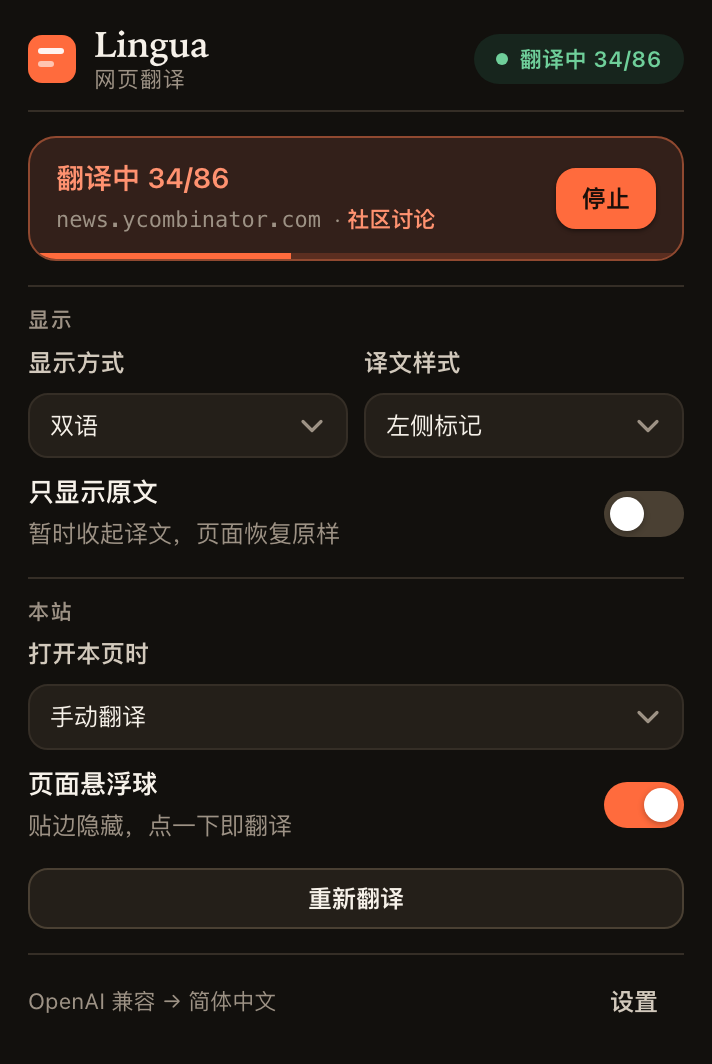
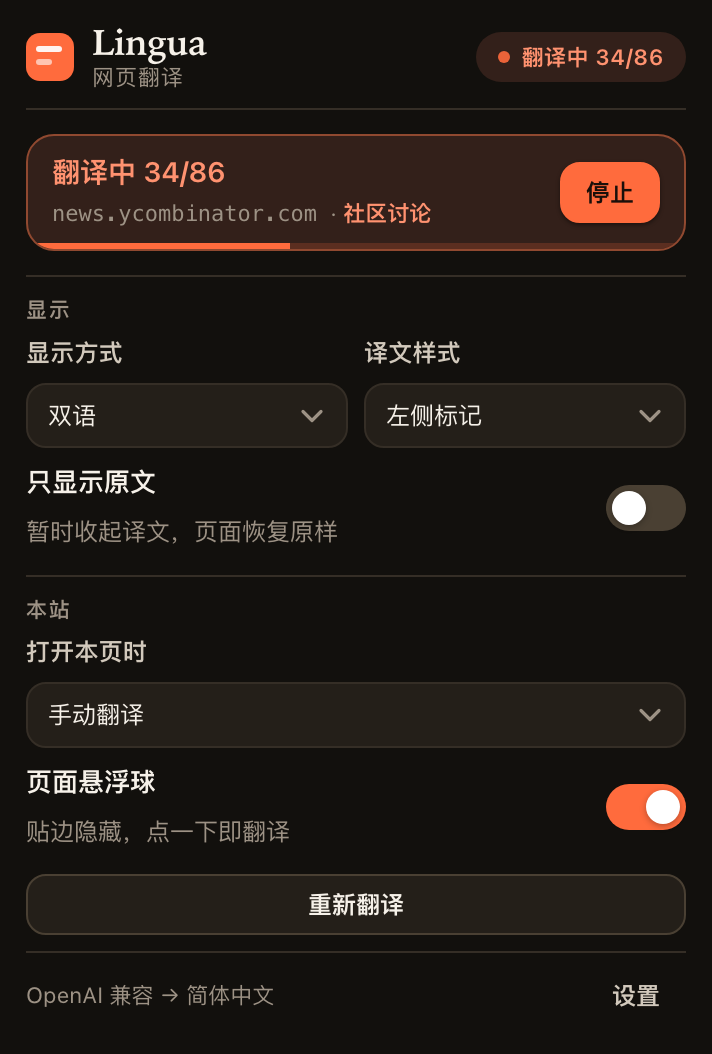
fix: 发布前审查 —— 修好截图脚手架、状态配色与若干文案歧义
截图脚手架
- buildBallDemo 只加载 ball.js，而 ball.js 已改为从 Lingua.constants.FONTS
  取字体栈，于是演示页在解析期抛错、悬浮球根本没挂载，README 里那张悬浮球
  配图变成一页空白 + 红色错误横幅。补上 constants.js。
- preview.mjs 现在把 --dump-dom 与 --screenshot 放在同一次运行里，发现红色
  横幅即判 FAIL 并让整轮退出码非零。此前这种坏页面会被报成 ok。
- 顺手修掉 60 秒/页的空转：Chrome 写完截图不退出，spawnSync 会一直等到
  超时，改用异步 spawn 并在读到 </html> 时立即结束（60.6s → 1.4s/页）。
- 三处演示页的错误横幅统一为 __lingua_errs，一个约定覆盖全部。
- 重出全部配图：page-bilingual 等仍印着改名前的旧命名空间 YTST。

状态配色
- renderPagePanel 自己手写了一套色调判断（用 active 而不是 status），于是
  「翻译中」在状态胶囊里是绿色、在紧挨着的状态卡里是橙色。改用与视频面板
  同一张 PAGE_STATUS 表 —— 那张表本来就是为它写的，却一直是死代码。

文案
- 「已同步」→「已保存」：设置存在 chrome.storage.local，不跨设备同步。
- 「清空」按钮点过一次后会永久变成「清空缓存」（初始与复位文案不一致）。
- 「尚未配置翻译服务，请前往设置填写 API」→ 填写凭据：要填的是 Key/地址。
- 「服务未选择」「未配置服务」→ 未选择供应商 / 未配置翻译服务。
- 「保留原文 + 译文」→「退回双语」：违反项目自己的术语表（双语 ≠ 原文+译文）。
- 「距底部」→「距画面底部」；「在页面上显示悬浮球」与弹窗里的「页面悬浮球」
  统一为后者；「268 / 412」与「34/86」统一为不带空格。
- README 同步更新对应表述。

验证：test-core 113 ✓ / test-dom 164 ✓ / test-pages 31 ✓ / e2e 74 ✓，配图全部重出

diff --git a/src/popup/popup.js b/src/popup/popup.js
@@ -134,7 +134,7 @@
     const model = modelOf(settings.provider);
     ui.providerName.textContent = provider
       ? `${provider.label}${model ? ' · ' + model : ''}${ready ? '' : ' · 未配置'}`
-      : '服务未选择';
+      : '未选择供应商';
     ui.providerName.dataset.state = ready ? 'ready' : 'missing';
     ui.enabled.checked = !!settings.enabled;
     ui.target.value = settings.targetLang;
@@ -145,7 +145,7 @@
     ui.pageMode.value = (settings.page && settings.page.displayMode) || 'bilingual';
     ui.pageStyle.value = (settings.page && settings.page.style) || 'underline';
     ui.pageBall.checked = !settings.page || settings.page.showBall !== false;
-    ui.footHint.textContent = provider ? `${provider.label} → ${labelOf(settings.targetLang)}` : '未配置服务';
+    ui.footHint.textContent = provider ? `${provider.label} → ${labelOf(settings.targetLang)}` : '未配置翻译服务';
   }
 
   /** Short "which model am I actually using" label for the popup header. */
@@ -179,7 +179,9 @@
       ui.progressBox.hidden = false;
       const pct = Math.round(((s.translated || 0) / s.cueCount) * 100);
       ui.progressBar.style.width = `${pct}%`;
-      ui.progressNum.textContent = `${s.translated || 0} / ${s.cueCount}`;
+      // No spaces around the slash: the page panel, the ball and this row all
+      // show the same "done/total" shape, and they used to disagree.
+      ui.progressNum.textContent = `${s.translated || 0}/${s.cueCount}`;
       ui.progressLabel.textContent = (s.translated || 0) >= s.cueCount ? '翻译完成' : s.liveMode ? '实时翻译' : '翻译中';
     }
 
@@ -192,7 +194,7 @@
     } else if (!settings.enabled) {
       setNote(ui.note, '已暂停，字幕不会翻译。', 'info');
     } else if (!NS.settings.providerReady(settings)) {
-      setNote(ui.note, '尚未配置翻译服务，请前往设置填写 API。', 'warn');
+      setNote(ui.note, '尚未配置翻译服务，请前往设置填写凭据。', 'warn');
     } else {
       setNote(ui.note, '');
     }
@@ -213,8 +215,11 @@
 
   function renderPagePanel(state) {
     const p = state.page || {};
-    const tone = p.status === 'error' ? 'err' : p.active ? 'ok' : 'idle';
-    if (activeTab === 'page') setStatus(tone, pageStatusText(p));
+    // Same table the video panel uses. Hand-rolling this mapped "translating"
+    // to green (it tested `active`, which is also true once finished), so the
+    // pill said green while the card below it said orange — for one state.
+    const meta = PAGE_STATUS[p.status] || PAGE_STATUS.idle;
+    if (activeTab === 'page') setStatus(meta.tone, pageStatusText(p));
 
     ui.pageHost.textContent = state.host || '—';
     ui.pageStateTitle.textContent = pageStatusText(p);
@@ -252,7 +257,7 @@
     } else if (p.rule === 'skip') {
       setNote(ui.pageNote, '已把本站设为「不翻译」。改回「手动翻译」即可恢复。', 'info');
     } else if (!NS.settings.providerReady(settings)) {
-      setNote(ui.pageNote, '尚未配置翻译服务，请前往设置填写 API。', 'warn');
+      setNote(ui.pageNote, '尚未配置翻译服务，请前往设置填写凭据。', 'warn');
     } else if (!p.active && p.showBall !== false) {
       setNote(ui.pageNote, '提示：页面上的悬浮球也能直接开始翻译。', 'info');
     } else {

diff --git a/src/options/options.html b/src/options/options.html
@@ -29,7 +29,7 @@
         </nav>
 
         <div class="rail__foot">
-          <span class="saveState" id="saveState">已同步</span>
+          <span class="saveState" id="saveState">已保存</span>
         </div>
       </aside>
 
@@ -105,7 +105,7 @@
             </div>
             <div class="field">
               <div class="labelRow">
-                <label class="label" for="bottomOffset">距底部</label>
+                <label class="label" for="bottomOffset">距画面底部</label>
                 <span class="num" id="bottomOffsetVal"></span>
               </div>
               <input type="range" id="bottomOffset" min="2" max="40" step="1" />
@@ -199,18 +199,18 @@
             <label class="label" for="pageLinkMode">「仅译文」如何处理含链接的段落</label>
             <select id="pageLinkMode">
               <option value="translate">译文里保留链接（推荐）</option>
-              <option value="keep">保留原文 + 译文（链接用原链接）</option>
+              <option value="keep">退回双语（链接保持可点）</option>
               <option value="strict">严格替换（链接会丢失）</option>
             </select>
             <div class="hint">
               选「译文里保留链接」时，链接会被包成占位符一起送去翻译，回来再重建，所以译文里的链接照样能点。
-              若模型弄坏了占位符，该段落会自动退回「保留原文 + 译文」。
+              若模型弄坏了占位符，该段落会自动退回双语显示。
             </div>
           </div>
 
           <label class="switchRow">
             <span class="switchRow__text">
-              <span class="switchRow__title">在页面上显示悬浮球</span>
+              <span class="switchRow__title">页面悬浮球</span>
               <span class="hint">可拖动，点一下即翻译，位置按站点记住</span>
             </span>
             <span class="switch">

diff --git a/src/options/options.js b/src/options/options.js
@@ -96,7 +96,9 @@
   function markSaved() {
     const el = $('saveState');
     el.dataset.state = 'ok';
-    el.textContent = '已同步';
+    // "已同步" would promise a cloud sync. Settings live in chrome.storage.local
+    // — one machine, one profile — so the honest word is 已保存.
+    el.textContent = '已保存';
   }
   function markError(msg) {
     const el = $('saveState');
@@ -665,7 +667,9 @@
       await new Promise((resolve) => chrome.runtime.sendMessage({ type: MSG.CLEAR_CACHE }, resolve));
       await refreshCache();
       btn.textContent = '已清空';
-      setTimeout(() => (btn.textContent = '清空缓存'), 1600);
+      // Back to the label the markup ships with — it used to restore a longer
+      // one ("清空缓存"), so the button silently grew after the first click.
+      setTimeout(() => (btn.textContent = '清空'), 1600);
     } finally {
       btn.disabled = false;
     }

diff --git a/README.md b/README.md
@@ -229,9 +229,9 @@ Headers: { "Authorization": "Bearer {{key}}", "Content-Type": "application/json"
 
 实测 Wikipedia：**453 段里 427 段真正替换了原文**（此前只有 75 段），**519 个链接全部可见可点**，链接文字也跟着翻译了（`Donate` → `捐赠`）。
 
-**模型偶尔会写坏标记**（实测 519 个链接里出现 1 次：`⟦1⟧X⟦/1⟧` 被写成 `X⟧/1⟧`）。这时**该段落自动退回「保留原文 + 译文」**，链接照常可用，并且会清洗掉残缺标记——绝不会在页面上留下 `⟦` 之类的乱码。
+**模型偶尔会写坏标记**（实测 519 个链接里出现 1 次：`⟦1⟧X⟦/1⟧` 被写成 `X⟧/1⟧`）。这时**该段落自动退回双语显示**，链接照常可用，并且会清洗掉残缺标记——绝不会在页面上留下 `⟦` 之类的乱码。
 
-设置页可以三选一：「译文里保留链接」（默认）/「保留原文 + 译文」/「严格替换（链接会丢失）」。
+设置页可以三选一：「译文里保留链接」（默认）/「退回双语（链接保持可点）」/「严格替换（链接会丢失）」。
 
 ### 搬元素，不克隆元素
 
